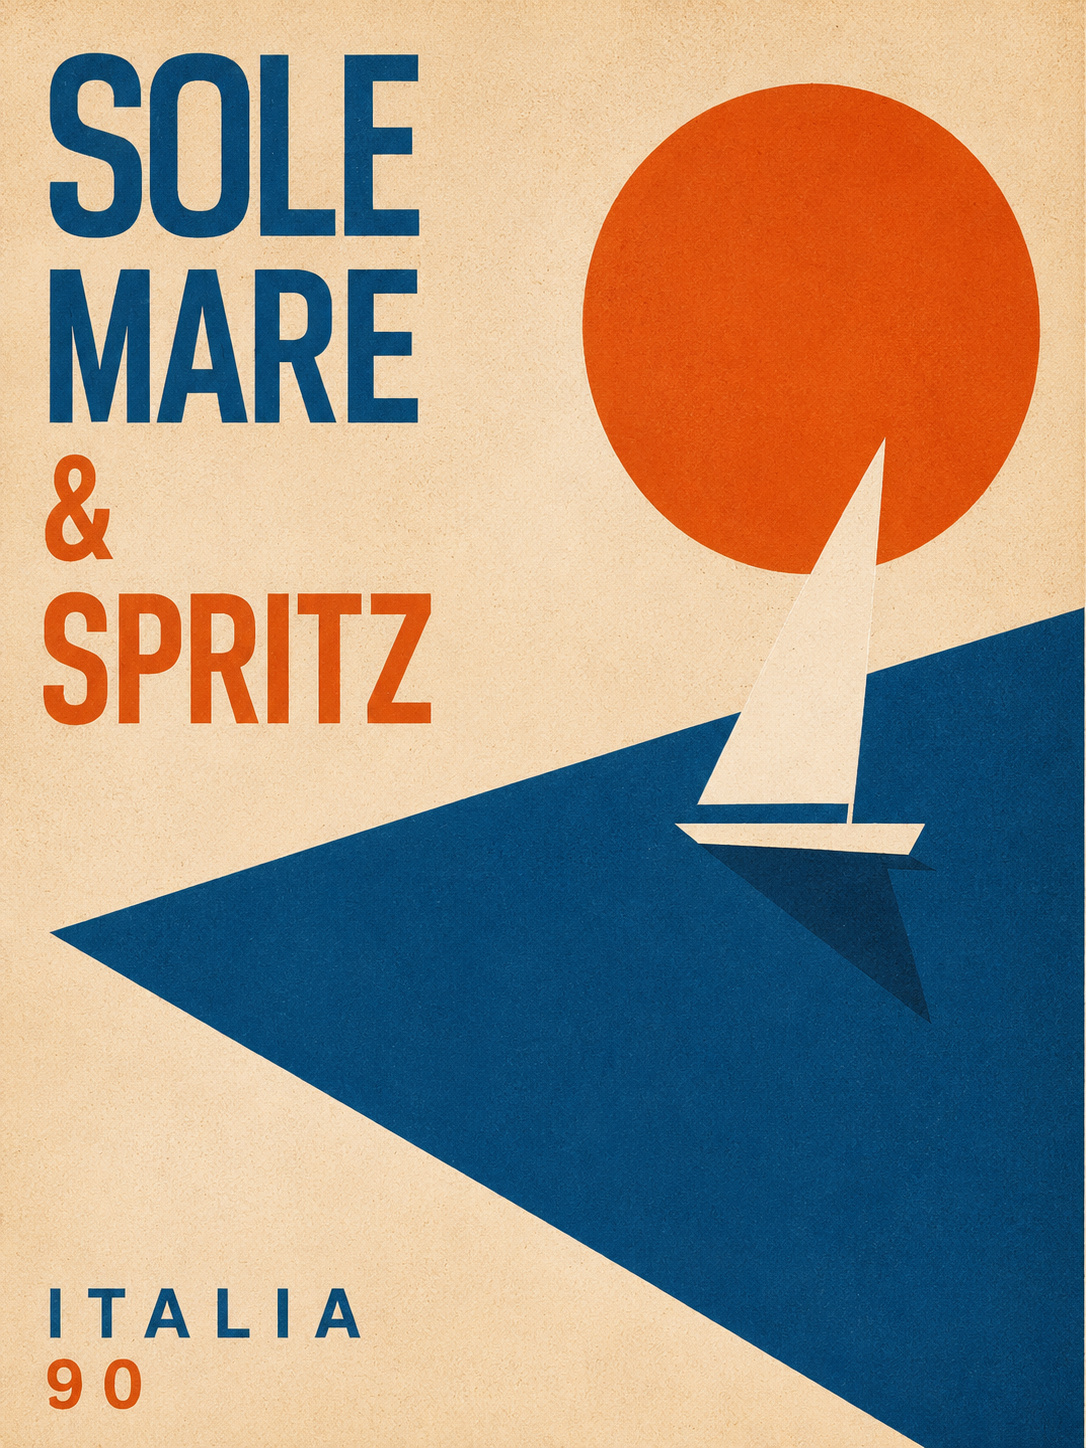
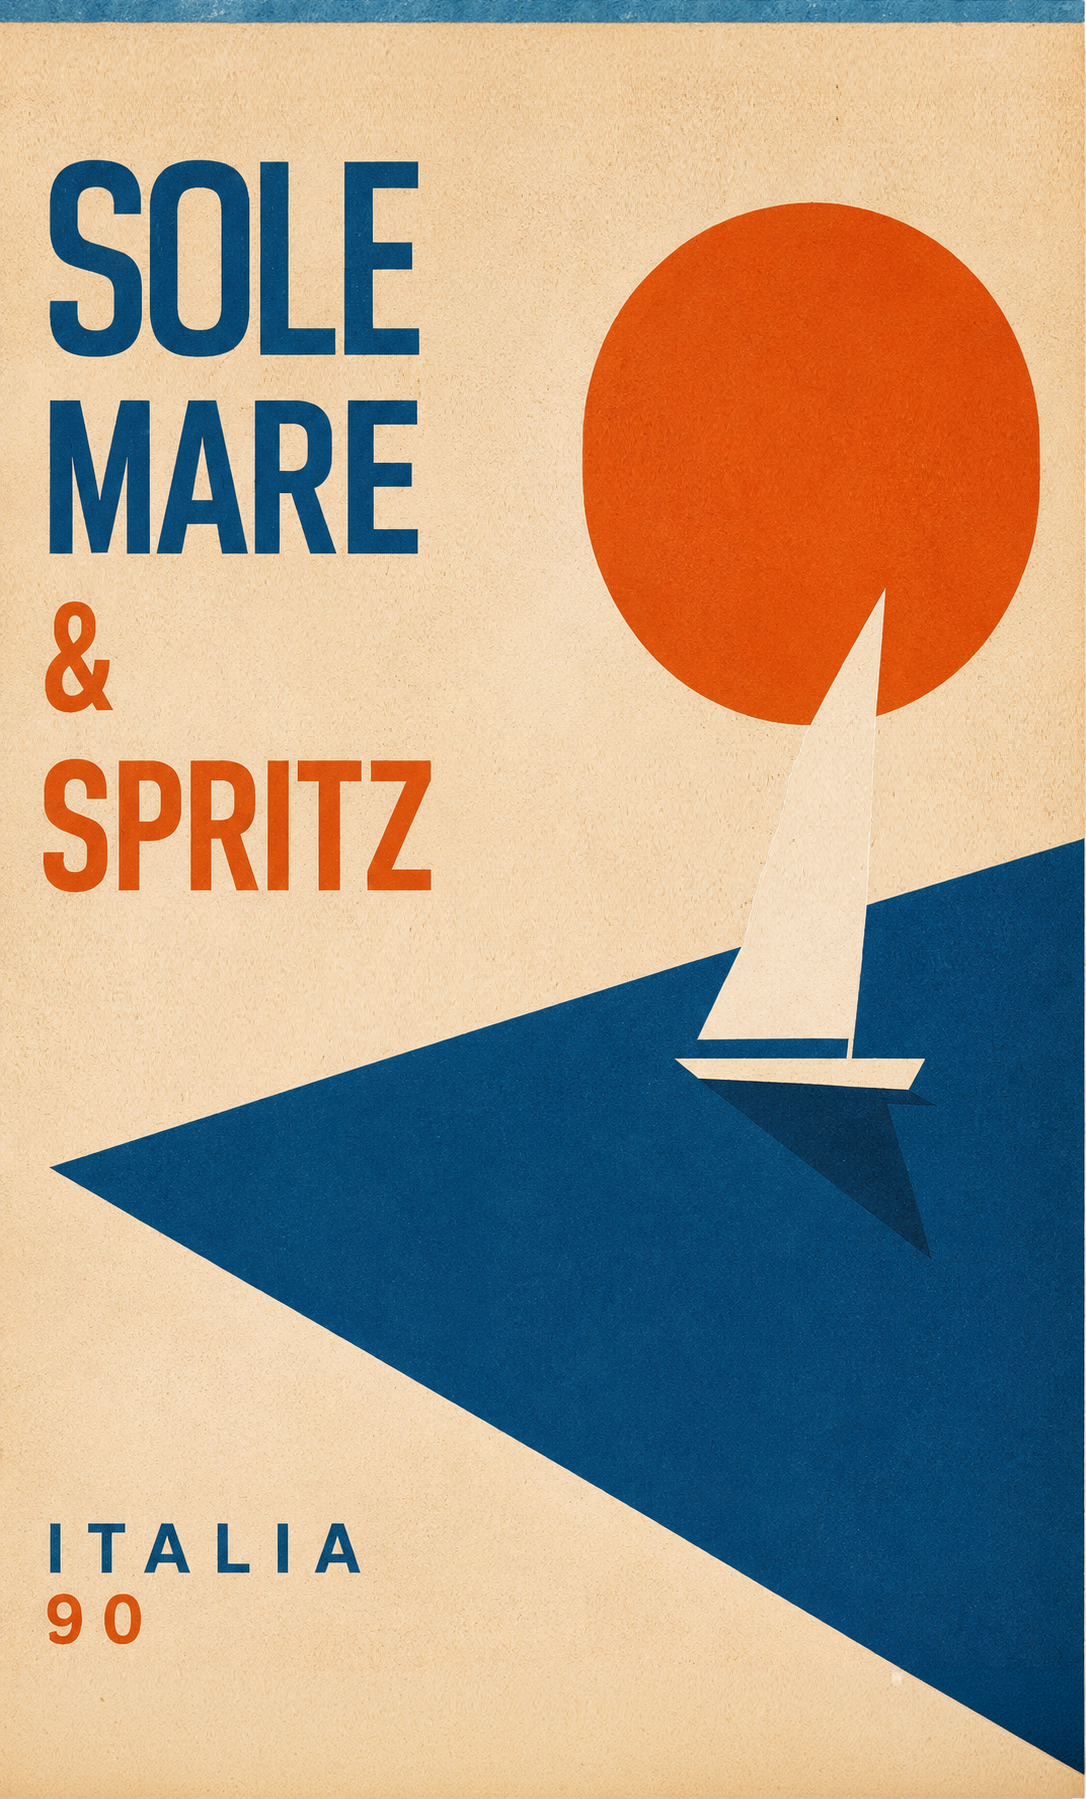
Actualizar afiche, bodegon_atlantico y agregar moodboard camino 1

diff --git a/Camino 1/bodegon_atlantico.html b/Camino 1/bodegon_atlantico.html
@@ -137,7 +137,7 @@
   .mg {
     display: grid;
     grid-template-columns: repeat(12, 1fr);
-    grid-template-rows: 270px 240px 215px 160px;
+    grid-template-rows: 270px 170px 300px 160px;
     gap: 3px;
     position: relative;
   }